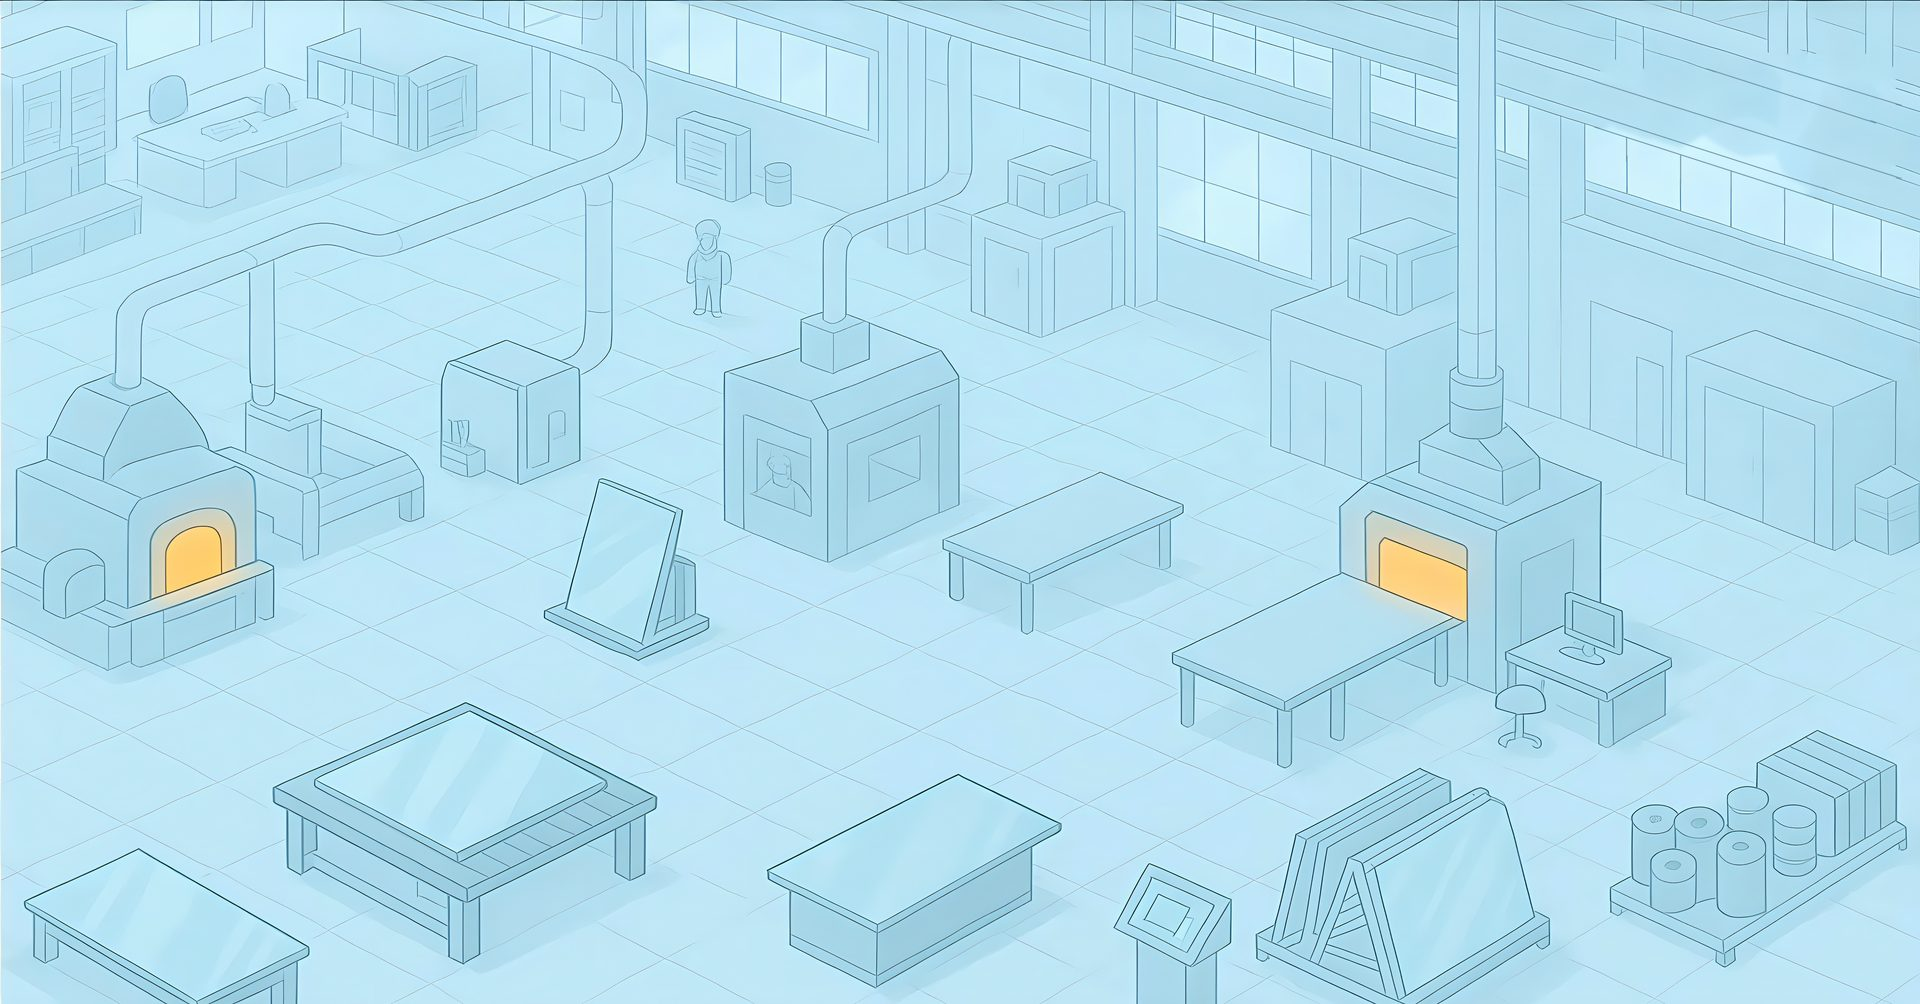
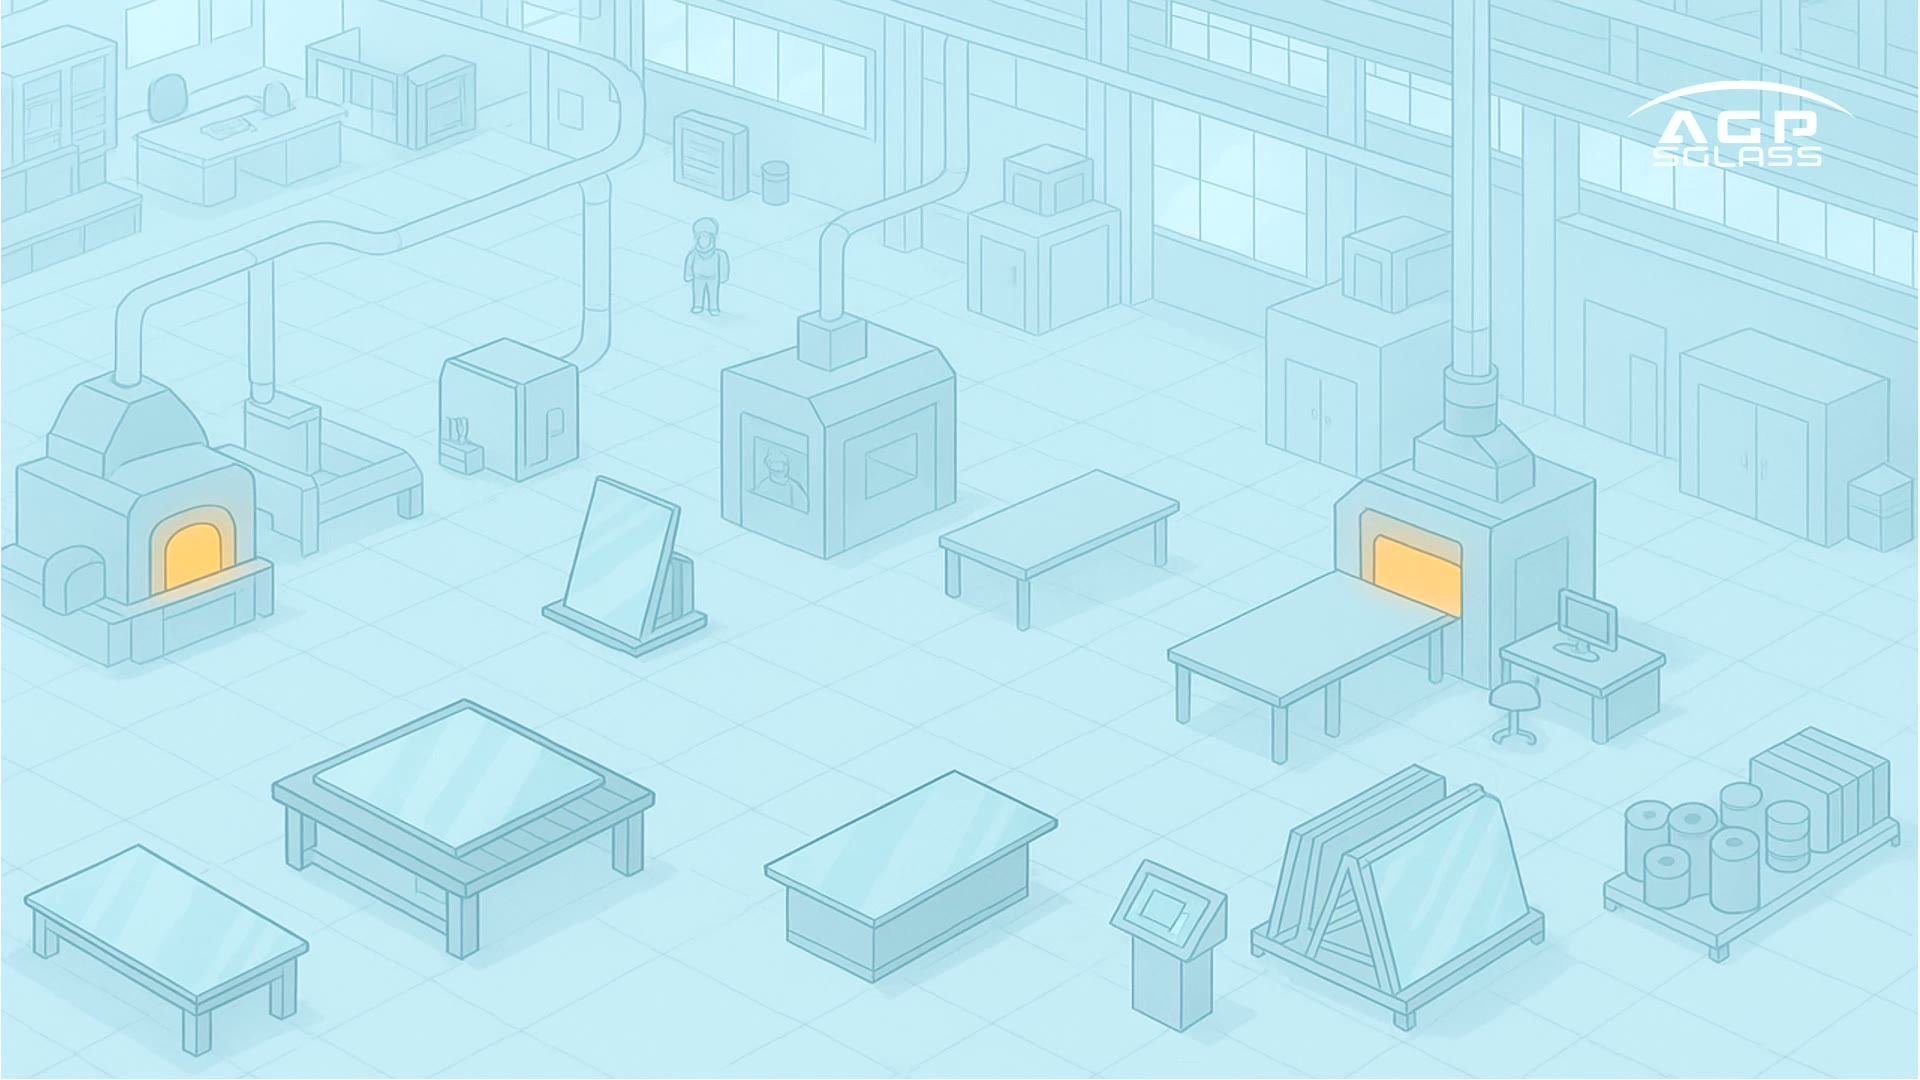
fix(visuales): fondo anterior, islas del mapa 20 % mas pequenas, intro en blanco
- Vuelve el fondo de fabrica anterior en el mapa y las islas; la intro usa
  un cuadro del antiguo INTROYES.mp4 como fondo.
- Islas del mapa al 80 % de su caja, centradas en el mismo punto.
- Intro: "ONBOARDING GAME" en blanco con sombra, como el lema; se quita el
  logo pequeno animado.

diff --git a/onboarding-game/app/index.tsx b/onboarding-game/app/index.tsx
@@ -15,7 +15,6 @@ export default function StartScreen() {
   const logo = useRef(new Animated.Value(0)).current;
   const titulo = useRef(new Animated.Value(0)).current;
   const lema = useRef(new Animated.Value(0)).current;
-  const logoChico = useRef(new Animated.Value(0)).current;
 
   const goNext = () => {
     if (navigatedRef.current) return;
@@ -34,7 +33,7 @@ export default function StartScreen() {
     Animated.sequence([
       fade(logo, 1, 900),
       Animated.delay(1800),
-      Animated.parallel([fade(logo, 0), fade(logoChico, 1)]),
+      fade(logo, 0),
       fade(titulo, 1),
       Animated.delay(2000),
       fade(titulo, 0),
@@ -58,11 +57,6 @@ export default function StartScreen() {
         source={require("../assets/introfondo.jpg")}
         style={StyleSheet.absoluteFill}
         resizeMode="cover"
-      />
-      <Animated.Image
-        source={require("../assets/LOGO.png")}
-        style={[styles.logoChico, { opacity: logoChico }]}
-        resizeMode="contain"
       />
       <View style={styles.centro}>
         <Animated.Image
@@ -96,13 +90,15 @@ const styles = StyleSheet.create({
     paddingHorizontal: 40,
   },
   logo: { width: "55%", height: "35%" },
-  logoChico: { position: "absolute", top: 24, right: 32, width: 120, height: 45, zIndex: 1 },
   titulo: {
     fontFamily: "PlusJakartaSans-ExtraBold",
     fontSize: 84,
     lineHeight: 92,
-    color: "#4C4C4C",
+    color: "#FFFFFF",
     textAlign: "center",
+    textShadowColor: "rgba(0,0,0,0.35)",
+    textShadowOffset: { width: 0, height: 2 },
+    textShadowRadius: 4,
   },
   lema: {
     fontFamily: "PlusJakartaSans-Bold",

diff --git a/onboarding-game/app/mapa.tsx b/onboarding-game/app/mapa.tsx
@@ -261,8 +261,11 @@ export default function MapaScreen() {
                 <Image
                   source={isla.img}
                   style={{
-                    width: isla.width,
-                    height: isla.height,
+                    // 20 % más pequeñas que su caja, centradas en el mismo punto
+                    width: isla.width * 0.8,
+                    height: isla.height * 0.8,
+                    marginHorizontal: isla.width * 0.1,
+                    marginTop: isla.height * 0.1,
                     resizeMode: "contain",
                   }}
                 />
